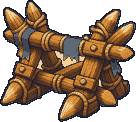
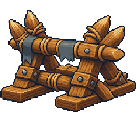
fix(runner): ground trap and barricade art

diff --git a/packages/renderer/src/hd2d/game-renderer.ts b/packages/renderer/src/hd2d/game-renderer.ts
@@ -53,6 +53,7 @@ import {
   LINDOCARA_INTERIOR_ASSET_IDS,
   LINDOCARA_PICKUP_ASSET_IDS,
   LINDOCARA_PICKUP_FLOAT_HEIGHT,
+  LINDOCARA_RUNNER_ASSET_IDS,
   NPC_MODEL_ASSETS,
 } from "@lindocara/engine/tiny-swords-catalog.js";
 import type { Facing } from "@lindocara/hd2d/billboard.js";
@@ -723,6 +724,16 @@ export function staticAssetSpec(assetId: string): StaticAssetSpec | null {
       aspect: definition.width / definition.height,
       renderMode: "flat",
       flatSize: 1.55,
+    };
+  }
+  if (assetId === LINDOCARA_RUNNER_ASSET_IDS.spikeTrap) {
+    return {
+      url: definition.sourcePath,
+      height: definition.height / TILE_SIZE,
+      aspect: definition.width / definition.height,
+      foot: 0,
+      renderMode: "flat",
+      flatSize: 1.45,
     };
   }
   if (UPDATE_TREE_ASSET_IDS.has(assetId)) {

diff --git a/packages/renderer/test/hd2d-content.test.ts b/packages/renderer/test/hd2d-content.test.ts
@@ -470,6 +470,15 @@ describe("staticAssetSpec", () => {
     });
   });
 
+  it("lays the runner spike trap flat on the terrain", () => {
+    expect(staticAssetSpec("decoration.lindocara-runner.spike-trap")).toMatchObject({
+      url: "/assets/lindocara/hd2d/runner/spike-trap.png",
+      renderMode: "flat",
+      flatSize: 1.45,
+      foot: 0,
+    });
+  });
+
   it("reads a catalogue sheet's grid, scale and ground line", () => {
     // `tree3` is a 192x192 frame repeated 8 times along x, its measured ground line 22px up.
     const spec = staticAssetSpec("resource.terrain-resources-wood-trees.tree3");
